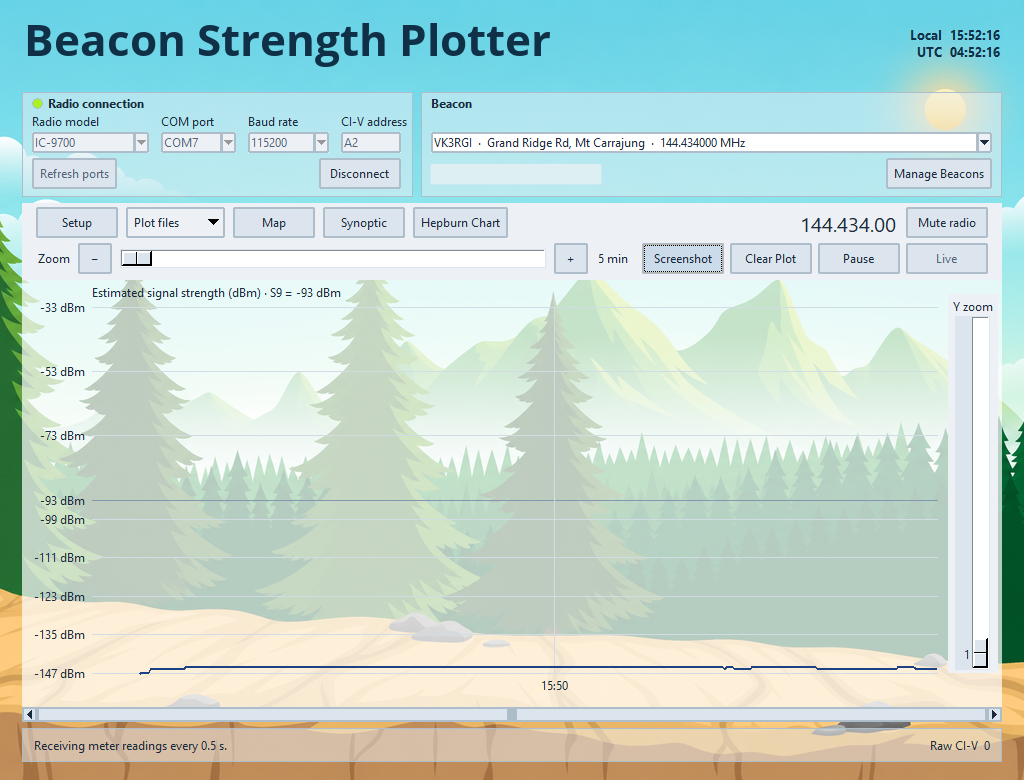
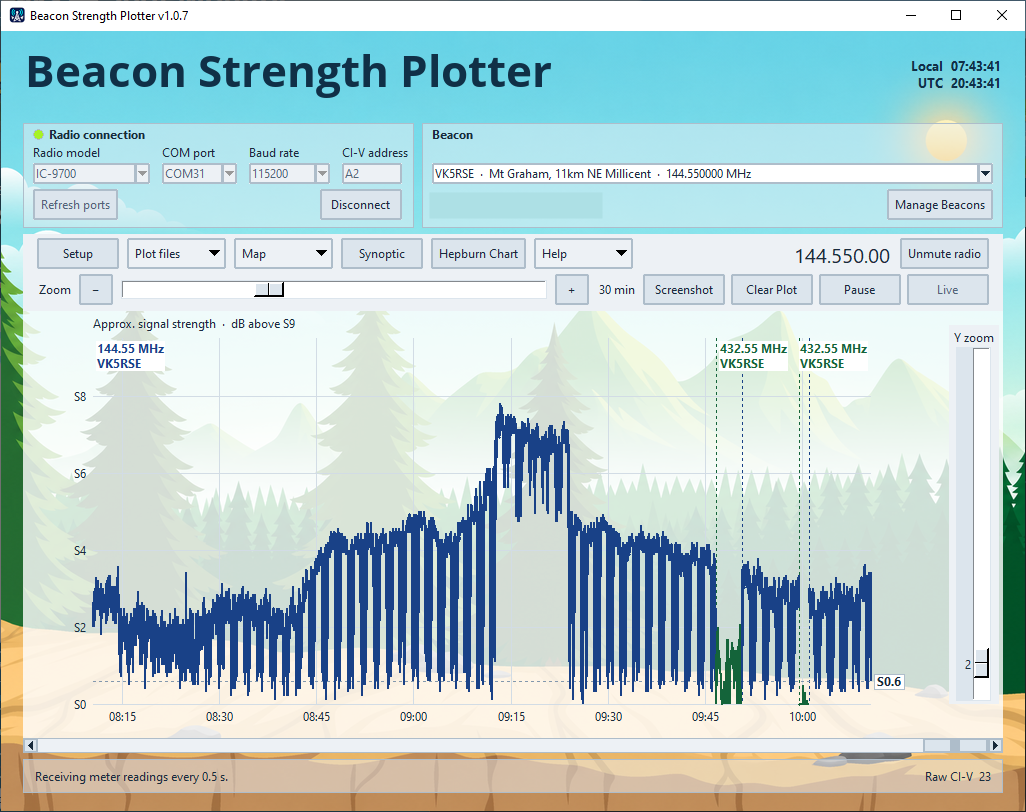
Update README and screenshots for v1.0.9

diff --git a/README.md b/README.md
@@ -1,20 +1,37 @@
-Beacon Strength Plotter is a Windows program for monitoring and recording amateur radio beacon signals from Icom transceivers via CI-V. Plot live S-meter readings in S-units or estimated dBm, review signal history, and export readings to CSV.
+# Beacon Strength Plotter
+
+Beacon Strength Plotter is a Windows 10 and 11 program for monitoring and recording amateur radio beacon signals from Icom transceivers via CI-V. Plot live S-meter readings in S-units or estimated dBm, track changes in propagation, and save recordings for later comparison.
+
+[Download the Windows installer](https://github.com/AM3FS/Beacon-Strength-Plotter/releases/latest) · [Quick Start](docs/Beacon-Plotter-Quick-Start.pdf) · [Operating Guide](docs/Beacon-Plotter-Operating-Guide.pdf)
+
+![Beacon Strength Plotter on Windows showing blue 144 MHz and green 432 MHz traces, frequency and callsign markers, and a right-side signal reading](beacon-strength-plotter.png)
+
+## New in v1.0.9
+
+- **Measure two points** — Place A and B on the trace to see elapsed time and change in signal level.
+- **Beacon lift alerts** — Set an audible alert for a saved beacon frequency when its estimated signal level stays at or above your dBm threshold for a chosen time.
+- **Unattended daily recording** — Save dated `.bplot` files to a folder of your choice. Snapshots are written every 30 seconds while samples arrive, with a new file at midnight UTC.
+- **Compare saved plots** — Overlay two recordings on a shared frequency, aligned by UTC time of day.
+- **Scan beacon frequencies** — Cycle through selected presets with a configurable dwell time. Filter the plot to one frequency to see the gaps while the radio was tuned elsewhere.
+- **Plot comments and latest-level guide** — Right-click the trace to add a timestamped comment that stays with the saved plot. Toggle the right-side reading and dotted horizontal guide in **Setup → Y-axis units**.
+
+![Tools menu showing measurement, lift alerts, daily recording, scanning and frequency filtering](beacon-plotter-tools.png)
 
 ## Features
 
-- **Live Icom CI-V monitoring** — Plot amateur radio beacon signals in S-units or estimated dBm. See the radio frequency and connection status at a glance.
-- **Zoom and review** — Scroll through up to 24 hours of readings, zoom in on weak signals, pause the display, or jump back to live monitoring. Adjust the sampling interval, smoothing and S9 reference.
-- **Save and share** — Save and reopen plots, export timestamped raw CI-V readings as CSV, or copy a screenshot.
-- **Beacon presets and VKSpotter** — Manage colour-coded presets, tune to a saved frequency in CW, and look up or import multiple beacon frequencies from VKSpotter.
-- **Distance, bearing and terrain** — Use Maidenhead locators to calculate distance and true bearing. View the station-to-beacon path and elevation profile in Google Maps, or export the path as KML.
-- **Propagation charts** — Automatically fetch the latest Bureau of Meteorology synoptic chart, use a custom image URL, or open your preferred Hepburn forecast.
+- **Live Icom CI-V monitoring** — See signal strength, tuned frequency and connection status. Scroll through up to 24 hours of readings, zoom in on weak signals, pause or return to Live. Set the sampling interval, smoothing and S9 reference.
+- **Band colours and frequency markers** — Follow different bands on one plot. Dashed markers identify frequency changes, with the beacon callsign shown when known.
+- **Save and share** — Save and reopen plots, export timestamped raw CI-V readings to CSV, or copy a screenshot.
+- **Beacon presets and VKSpotter** — Manage colour-coded presets, tune to a saved frequency in CW, and look up or import multiple frequencies from VKSpotter.
+- **Distance, bearing and terrain** — Use Maidenhead locators to calculate distance and true bearing. Open the path in **OK1CDJ PathProfile** without a subscription, API key or configuration. **Google Maps and elevation** uses your Google Maps API key and offers KML export.
+- **Propagation charts** — Automatically fetch the latest Bureau of Meteorology synoptic chart, use a custom chart image URL, or open your preferred Hepburn forecast.
 - **Radio auto-connect** — Discover Windows USB and virtual COM ports and retry after an unexpected connection loss.
-- **Display, help and updates** — Show your callsign in the title, choose Day, Night or Auto mode, open the Quick Start and Operating Guide from **Help**, and check for new releases in **Setup**.
+- **Display, help and updates** — Show your callsign in the title, choose Day, Night or Auto mode, open the guides from **Help**, and check for new releases in **Setup**.
 
 ## Supported Icom radios
 
-Built-in CI-V presets are available for the **IC-905, IC-9700, IC-705, IC-7300, IC-7300MK2, IC-7610 and IC-7760**. For other compatible Icom radios, select **Custom Icom** and enter the radio's CI-V address.
+Built-in CI-V presets are available for the **IC-905, IC-9700, IC-705, IC-7300, IC-7300MK2, IC-7610 and IC-7760**. For other compatible Icom radios, select **Custom Icom** and enter your radio’s CI-V address.
 
-[Download the Windows installer](https://github.com/AM3FS/Beacon-Strength-Plotter/releases/latest)
+## Install
 
-![Beacon Strength Plotter on Windows showing a live IC-9700 signal trace in dBm](beacon-strength-plotter.png)
+Download **VK3FS-Beacon-Strength-Plotter-Setup.exe** from the latest release assets and run it on Windows 10 or 11. Open the Quick Start for radio connection and setup instructions.
